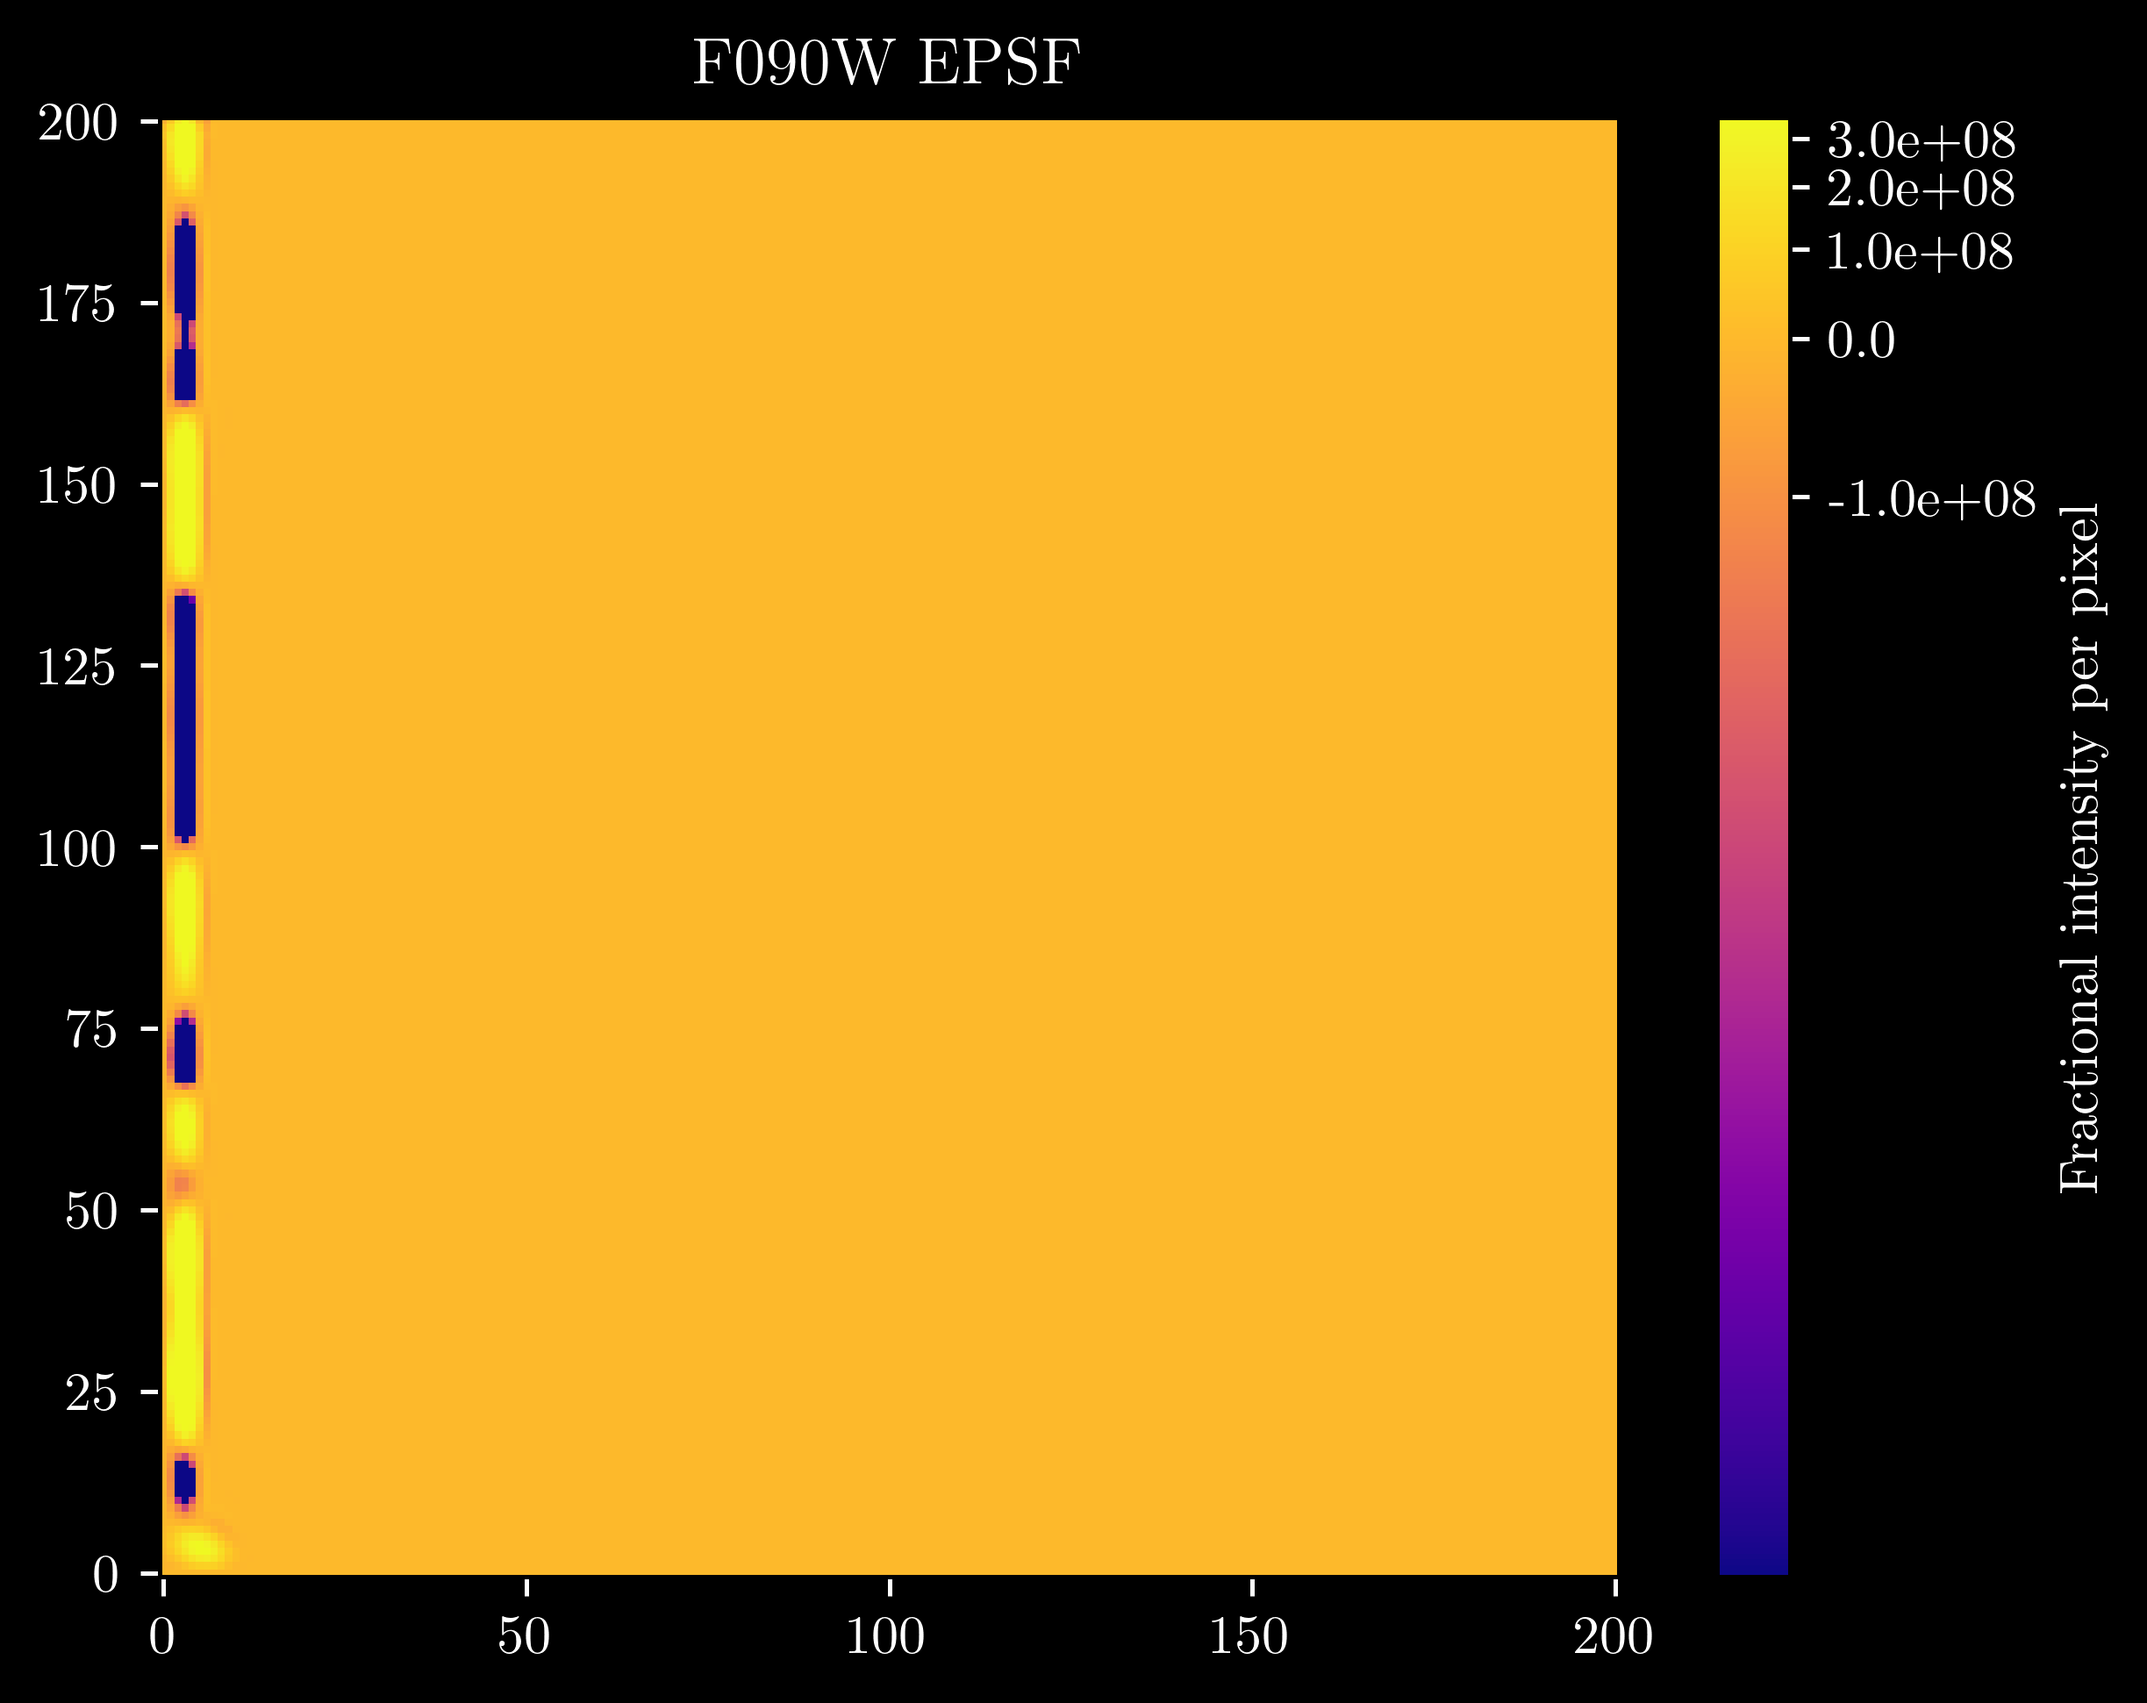
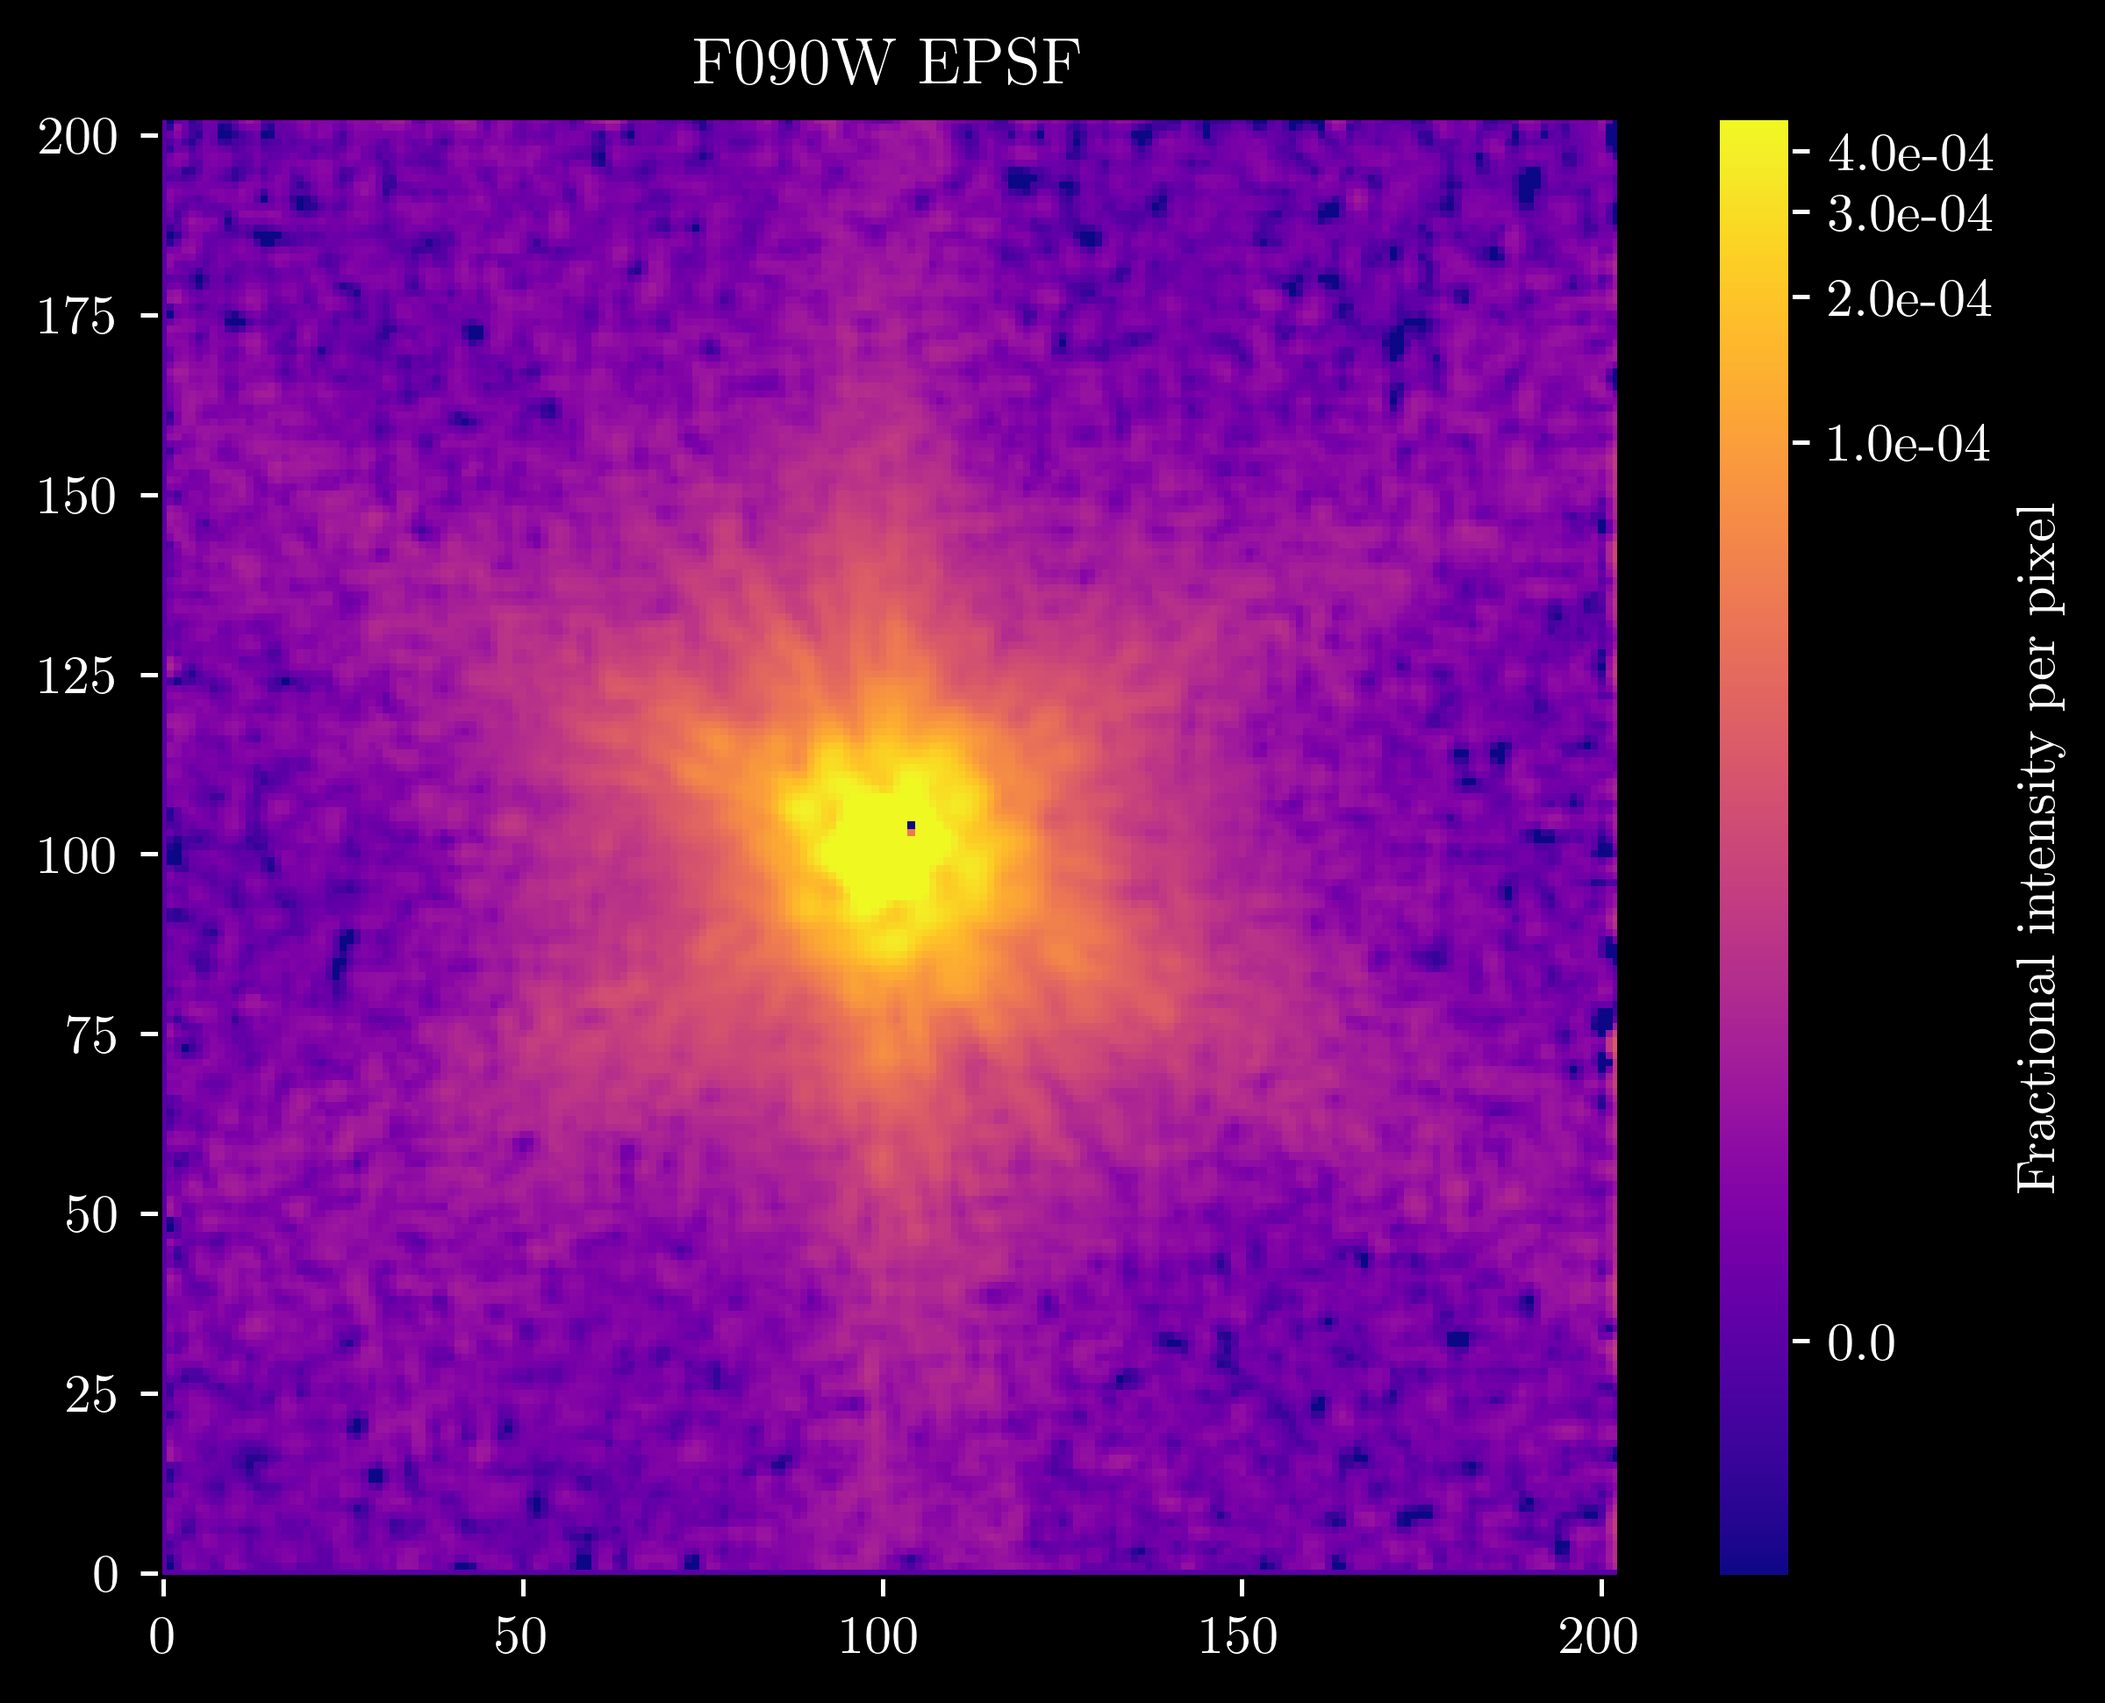
JWST EPSF WORKS

diff --git a/extract_stars_incl_jwst.py b/extract_stars_incl_jwst.py
@@ -96,7 +96,7 @@ def star_cutouts(cat_length, RA, DEC, ID, simbad=False, plot=True, HST_only=Fals
             star = EPSFStar(cutout.data, 
                             cutout_center=cutout.center_cutout, origin = cutout.origin_original, 
                             wcs_large=WCS(img.header), id_label=obj_id)
-            if star.flux >= 0.0: # Only add stars with positive flux to EPSFStars list 
+            if star.flux >= 0.0 and np.all(np.isfinite(star._data_values)): # Only add stars with positive flux to EPSFStars list 
                 EPSF_stars_per_filter[j].append(star)
 
             if plot:
@@ -177,6 +177,7 @@ def build_psf(stars_per_filter, filter_names) -> None:
         if s_list != stars_per_filter[-1]: # Save the EPSF to a fits file for all filters except F444W (already made it's PSF with webbpsf)
             hdu = fits.PrimaryHDU(data=epsf_padded.data)
             hdu.writeto(f_path / 'psf' / f'{f}_PSF.fits', overwrite=True)
+            print(f'Saved {f} PSF to fits file')
 
         # Plot the EPSF (using photutils example code)
         norm = simple_norm(epsf.data, 'log', percent=99.0)
@@ -203,7 +204,7 @@ def main():
     # cat = np.genfromtxt(f_path / cat_folder / 'FRESCO_simbad_stars.txt', delimiter='\t', names=True, dtype=None, encoding='utf-8')
     # cat_sim = np.delete(cat, excluded_sources) # Remove the excluded sources
     
-    # spf, filters = star_cutouts(len(cat_sim), cat_sim['ra'], cat_sim['dec'], cat_sim['identifier'], simbad=True, plot=False, HST_only=True)
+    # spf, filters = star_cutouts(len(cat_sim), cat_sim['ra'], cat_sim['dec'], cat_sim['identifier'], simbad=True, plot=False, JWST_only=True)
     # build_psf(spf, filters)
 
     # Load the SE catalog
@@ -212,7 +213,7 @@ def main():
 
     # Andrea's v7 star catalog
     cat_v7 = np.genfromtxt(f_path / cat_folder / f'{cat_name}_imgv7.0_stars.cat', names=True, dtype=None, encoding='utf-8')
-    spf, filters = star_cutouts(len(cat_v7), cat_v7['ra'], cat_v7['dec'], cat_v7['id'], simbad=False, plot=False, HST_only=True)
+    spf, filters = star_cutouts(len(cat_v7), cat_v7['ra'], cat_v7['dec'], cat_v7['id'], simbad=False, plot=False, JWST_only=True)
     build_psf(spf, filters)
 
 if __name__ == '__main__':

diff --git a/paths_and_global_vars.py b/paths_and_global_vars.py
@@ -22,8 +22,8 @@ cat_name = 'gds'
 # f_names = ['F336WU', 'F435W', 'F475W', 'F606W', 'F606WU', 'F775W', 'F814W', 'F814WU', 'F850LP', 'F850LPU', 
 #            'F105W', 'F110W', 'F125W', 'F140W', 'F160W', 'F182M', 'F210M', 'F430M', 'F460M', 'F480M', 'F444W']
 f_names = ['F336WU', 'F435W', 'F606W', 'F606WU', 'F775W', 'F814W', 'F850LP', 
-           'F090W', 'F105W', 'F115W', 'F150W', 'F182M', 'F200W', 'F210M', 'F277W', 'F335M', 'F356W', 'F410M', 'F460M', 'F480M', 'F444W']
-nircam_names = ['F090W', 'F115W', 'F150W', 'F182M', 'F200W', 'F210M', 'F277W', 'F335M', 'F356W', 'F410M', 'F430M', 'F460M', 'F480M', 'F444W']
+           'F090W', 'F105W', 'F115W', 'F150W', 'F182M', 'F200W', 'F210M', 'F277W', 'F335M', 'F356W', 'F410M', 'F430M' 'F444W']
+nircam_names = ['F090W', 'F115W', 'F150W', 'F182M', 'F200W', 'F210M', 'F277W', 'F335M', 'F356W', 'F410M', 'F430M','F444W']
 
 filter_dict = {'F336WU': 'HST_WFC3_UVIS1.F336W.dat',
                 'F435W': 'HST_ACS_WFC.F435W.dat',
